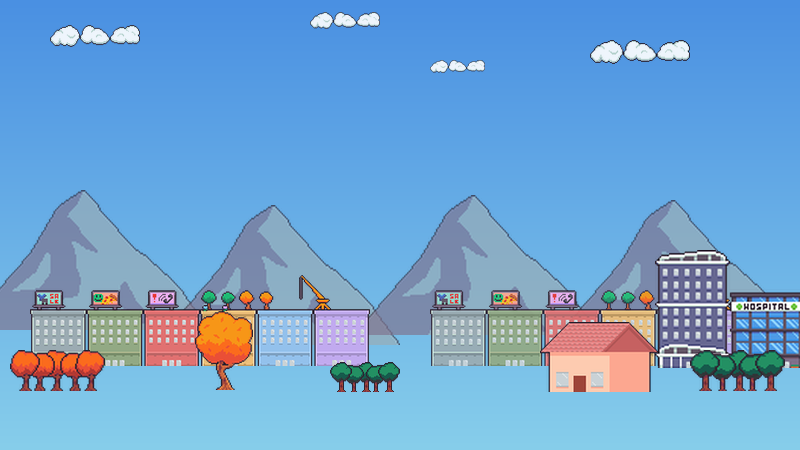
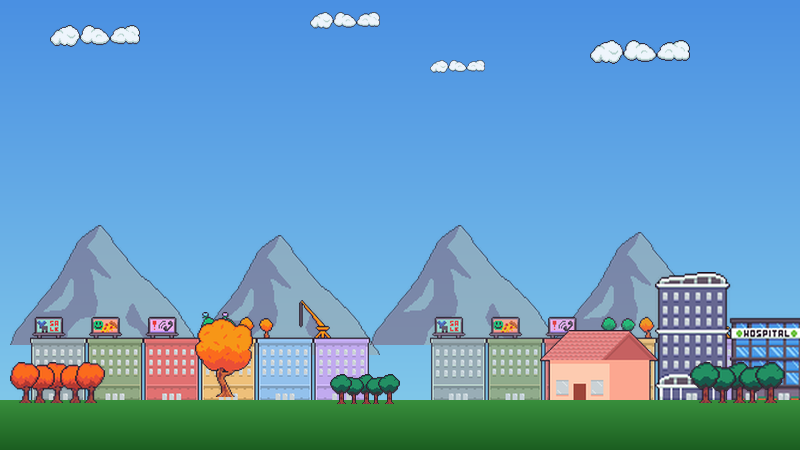
Fix background horizon/mountain clipping and texture the platforms
- bg_city.png rebuilt: mountains repositioned so every peak stays fully
  on-canvas (none clipped at the edges anymore), and a continuous green
  ground-plane band was added under the skyline so buildings/trees sit
  flush on solid ground instead of leaving a strip of bare sky showing
  above the in-game ground rect (the 'submerged trench' look)
- Added assets/platform_tile.png, a frost-topped candy tile strip sliced
  from the same 'world 1 CAKES' sheet as world_badge.png
- Floating platforms now fill with that tile via a repeating canvas
  pattern instead of a flat gray gradient; ground floor is unchanged

diff --git a/index.html b/index.html
@@ -84,6 +84,8 @@ function loadSprite(name, src) {
 loadSprite('coin', 'assets/star_blue.png');
 loadSprite('goal', 'assets/star_gold.png');
 loadSprite('bgCity', 'assets/bg_city.png');
+loadSprite('platformTile', 'assets/platform_tile.png');
+let platformPattern = null; // built once the tile image is loaded (see render)
 
 // Player character frames. The art faces left by default; walking right
 // is drawn mirrored. blow_1..blow_4 line up with player.bubbleStage.
@@ -421,22 +423,37 @@ function render() {
         ctx.fillRect(0, 0, canvas.width, canvas.height);
     }
 
-    // Draw Platforms (concrete rooftop ledges over a grassy street-level floor)
+    // Build the platform texture pattern once the tile art has loaded
+    if (!platformPattern && sprites.platformTile.complete && sprites.platformTile.naturalWidth) {
+        platformPattern = ctx.createPattern(sprites.platformTile, 'repeat');
+    }
+
+    // Draw Platforms: frost-topped candy tile ledges over a grassy
+    // street-level floor
     platforms.forEach(plat => {
         if (plat.type === 'ground') {
             const grad = ctx.createLinearGradient(0, plat.y, 0, plat.y + plat.h);
             grad.addColorStop(0, '#2e7d32');
             grad.addColorStop(1, '#1b5e20');
             ctx.fillStyle = grad;
+            ctx.fillRect(plat.x, plat.y, plat.w, plat.h);
+            ctx.strokeStyle = '#0d3d10';
+            ctx.strokeRect(plat.x, plat.y, plat.w, plat.h);
+        } else if (platformPattern) {
+            ctx.fillStyle = platformPattern;
+            ctx.fillRect(plat.x, plat.y, plat.w, plat.h);
+            ctx.strokeStyle = '#5b57a3';
+            ctx.strokeRect(plat.x, plat.y, plat.w, plat.h);
         } else {
+            // Fallback while the tile image is still loading
             const grad = ctx.createLinearGradient(0, plat.y, 0, plat.y + plat.h);
             grad.addColorStop(0, '#b0bec5');
             grad.addColorStop(1, '#78909c');
             ctx.fillStyle = grad;
+            ctx.fillRect(plat.x, plat.y, plat.w, plat.h);
+            ctx.strokeStyle = '#546e7a';
+            ctx.strokeRect(plat.x, plat.y, plat.w, plat.h);
         }
-        ctx.fillRect(plat.x, plat.y, plat.w, plat.h);
-        ctx.strokeStyle = plat.type === 'ground' ? '#0d3d10' : '#546e7a';
-        ctx.strokeRect(plat.x, plat.y, plat.w, plat.h);
     });
 
     // Draw Goal (gold star marker)

diff --git a/README.md b/README.md
@@ -25,10 +25,17 @@ Open `index.html` in a browser to play — no build step, no dependencies.
   marker.
 - `assets/bg_city.png` — a city skyline backdrop composited from pieces
   of the houses/buildings/trees/mountains tileset (distant mountains,
-  an apartment row, a hospital tower, a house, and trees), layered behind
-  a sky gradient.
+  an apartment row, a hospital tower, a house, and trees) standing on a
+  continuous green ground plane, layered behind a sky gradient. Mountains
+  and buildings are placed so every peak/base stays fully on-canvas and
+  flush with the ground — no clipped peaks, no gap of bare sky showing
+  above the ground line.
 - `assets/world_badge.png` — small decorative icon next to the level
   counter in the UI panel.
+- `assets/platform_tile.png` — a frost-topped candy tile strip sliced
+  from the "world 1 CAKES" sheet (the same sheet `world_badge.png` comes
+  from); tiled via `ctx.createPattern(..., 'repeat')` to texture every
+  floating platform instead of a flat gray rectangle.
 - `assets/player/*.png` — 13 frames sliced from the bubblegum-blowing boy
   character sheet: a 4-frame walk cycle, a 3-frame idle bob, a fall/jump
   pose, and 4 blow-up frames + a pop frame that map directly onto
